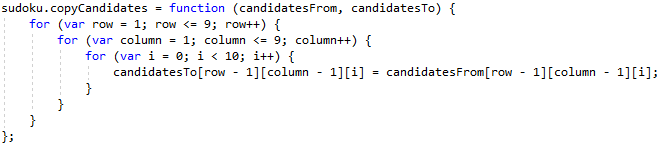
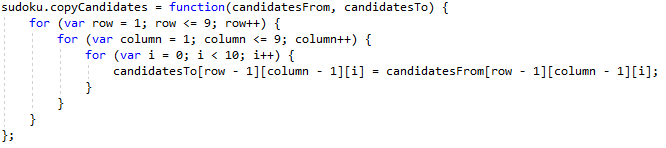
Commit 2019-11-07 kl. 09:50

diff --git a/Sudoku solver/Code/JavaScript/Sudoku.js b/Sudoku solver/Code/JavaScript/Sudoku.js
@@ -130,7 +130,7 @@ sudoku.sourceExists = function (source, isFile) {
     }
 };
 
-sudoku.copyList = function (from, to) {
+sudoku.copyList = function(from, to) {
     to.splice(0, to.length);
 
     for (var i = 0; i < from.length; i++) {
@@ -138,7 +138,7 @@ sudoku.copyList = function (from, to) {
     }
 };
 
-sudoku.copySudokuBoard = function (sudokuBoardFrom, sudokuBoardTo) {
+sudoku.copySudokuBoard = function(sudokuBoardFrom, sudokuBoardTo) {
     for (var row = 1; row <= 9; row++) {
         for (var column = 1; column <= 9; column++) {
             sudokuBoardTo[row - 1][column - 1] = sudokuBoardFrom[row - 1][column - 1];
@@ -146,7 +146,7 @@ sudoku.copySudokuBoard = function (sudokuBoardFrom, sudokuBoardTo) {
     }
 };
 
-sudoku.copyCandidates = function (candidatesFrom, candidatesTo) {
+sudoku.copyCandidates = function(candidatesFrom, candidatesTo) {
     for (var row = 1; row <= 9; row++) {
         for (var column = 1; column <= 9; column++) {
             for (var i = 0; i < 10; i++) {
@@ -170,7 +170,7 @@ sudoku.restoreState = function(cellsRemainToSet, cellsRemainToSetAfterAddedNumbe
     numOfCandidates[0] = numOfCandidatesAfterAddedNumWithCert[0];
 };
 
-sudoku.getInputSudokuBoard = function (args, sudokuBoard, cellsRemainToSet) {
+sudoku.getInputSudokuBoard = function(args, sudokuBoard, cellsRemainToSet) {
     var rows, columns, sudokuBoardString;
     var row, column, n;
 
@@ -205,7 +205,7 @@ sudoku.getInputSudokuBoard = function (args, sudokuBoard, cellsRemainToSet) {
         for (column = 1; column <= 9; column++) {
             n = Number(columns[column - 1]);
 
-            if (isNaN(n) || (Math.trunc(n) != n)) {
+            if (isNaN(n) || Math.trunc(n) !== n) {
                 return "The value \"" + columns[column - 1] + "\" in row " + row + " and column " + column + " in input file is not a valid integer!";
             }
 
@@ -247,7 +247,7 @@ sudoku.candidateIsAlonePossible = function(number, candidates, squareCellToRowCo
 
         if (n > 0) {
             for (j = 0; j < n; j++) {
-                if (candidates[row - 1][column - 1][1 + j] == number) {
+                if (candidates[row - 1][column - 1][1 + j] === number) {
                     numberOfOccurenciesOfNumber++;
 
                     if (numberOfOccurenciesOfNumber > 1)
@@ -258,15 +258,15 @@ sudoku.candidateIsAlonePossible = function(number, candidates, squareCellToRowCo
     }
 
     return true;
-}
+};
 
 sudoku.removeNumberIfItExists = function(v, number) {
     var i, n, index = -1, returnValue = 0;
 
     n = v[0];
     i = 1;
-    while (i <= n && index == -1) {
-        if (v[i] == number) {
+    while (i <= n && index === -1) {
+        if (v[i] === number) {
             index = i;
             returnValue = 1;
         }
@@ -274,7 +274,7 @@ sudoku.removeNumberIfItExists = function(v, number) {
             i++;
     }
 
-    if (index != -1) {
+    if (index !== -1) {
         while (index + 1 <= n) {
             v[index] = v[index + 1];
             index++;
@@ -284,13 +284,12 @@ sudoku.removeNumberIfItExists = function(v, number) {
     }
 
     return returnValue;
-}
+};
 
 sudoku.returnNumberOfOccurenciesOfNumber = function(sudokuBoard, squareCellToRowColumnMapper, number, t, target) { //t refers to a row, column or square
     var row = 0, column = 0, n = 0;
 
-    for (var i = 0; i < 9; i++)
-    {
+    for (var i = 0; i < 9; i++) {
         switch (target) {
             case sudoku.target.ROW:
                 row = t;
@@ -306,12 +305,12 @@ sudoku.returnNumberOfOccurenciesOfNumber = function(sudokuBoard, squareCellToRow
                 break;
         }
 
-        if (sudokuBoard[row - 1][column - 1] == number)
+        if (sudokuBoard[row - 1][column - 1] === number)
             n++;
     }
 
     return n;
-}
+};
 
 sudoku.returnTwoDimensionalDataStructure = function(m, n) {
     var i, j, v = [];
@@ -322,9 +321,9 @@ sudoku.returnTwoDimensionalDataStructure = function(m, n) {
     for (i = 0; i < m; i++)
         for (j = 0; j < n; j++)
             v[i].push(0);
- 
+
     return v;
-}
+};
 
 sudoku.returnThreeDimensionalDataStructure = function(l, m, n) {
     var i, j, k, v = [];
@@ -342,7 +341,7 @@ sudoku.returnThreeDimensionalDataStructure = function(l, m, n) {
                 v[i][j].push(0);
 
     return v;
-}
+};
 
 sudoku.returnSquareCellToRowColumnMapper = function() {
     var v, index, i, row, column, square;
